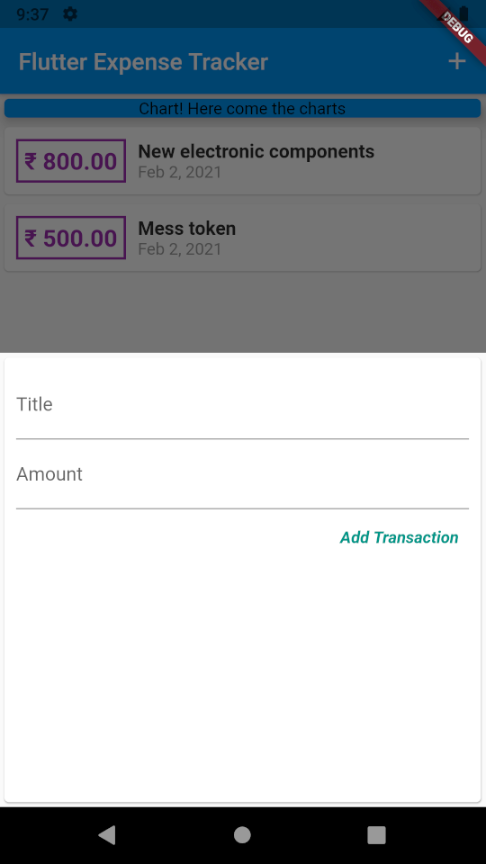
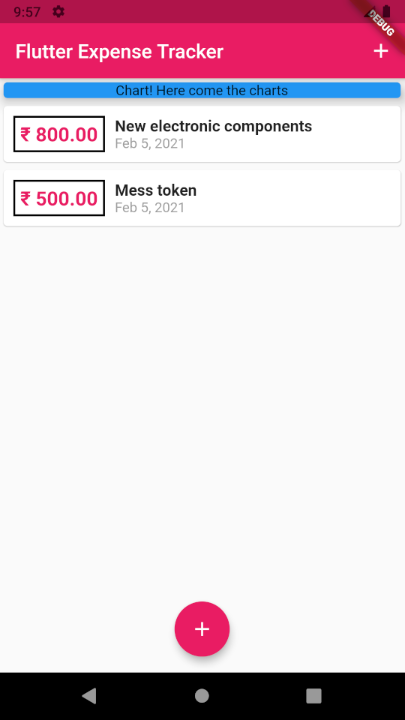
Adding theme and using color from theme

diff --git a/lib/widgets/TransactionList.dart b/lib/widgets/TransactionList.dart
@@ -24,12 +24,11 @@ class TransactionList extends StatelessWidget {
                     style: TextStyle(
                       fontWeight: FontWeight.bold,
                       fontSize: 20,
-                      color: Colors.purple,
+                      color: Theme.of(context).primaryColor,
                     ),
                   ),
                   margin: EdgeInsets.symmetric(vertical: 10, horizontal: 10),
-                  decoration: BoxDecoration(
-                      border: Border.all(color: Colors.purple, width: 2)),
+                  decoration: BoxDecoration(border: Border.all(width: 2)),
                   padding: EdgeInsets.all(5),
                 ),
                 Column(

diff --git a/lib/main.dart b/lib/main.dart
@@ -13,6 +13,9 @@ class MyApp extends StatelessWidget {
     return MaterialApp(
       title: 'Flutter App',
       home: MyHomePage(),
+      theme: ThemeData(
+        primarySwatch: Colors.pink,
+      ),
     );
   }
 }

diff --git a/README.md b/README.md
@@ -37,5 +37,9 @@ A new Flutter project.
 - This widget is used to show a modal from bottom.
 - It needs context metadata and builder argument to which returns the widget to show in the modal.
 
+### Theme
+- `ThemeData` - Used to create the theme which can be used all over the app for coloring, text styling, etc.
+- `primarySwatch` is different from `primaryColor` because it automatically creates shades of a color and uses it in many places.
+
 ### Output
 ![Output image](output.png)
